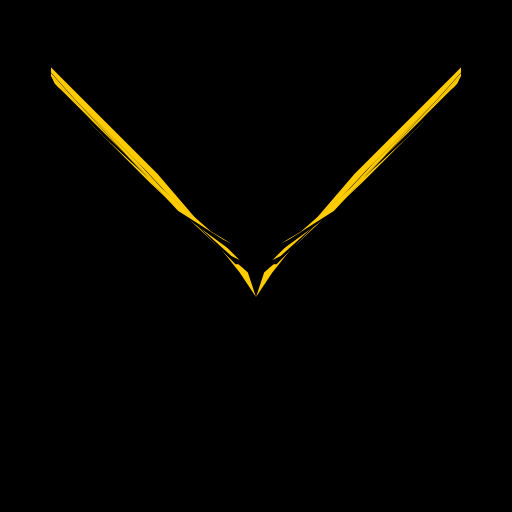
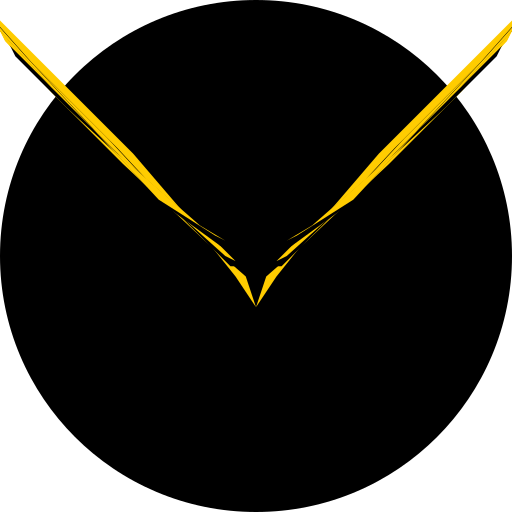
fix: sustituir isologo moto por V amarilla + botón PWA persistente
- Regenerar PNGs (logo-192, logo-512, favicon, maskable) desde logo-mundo-motos.svg
- Login.tsx y App.tsx ahora apuntan a /logo-mundo-motos.svg (cache-proof)
- InstallPWA: botón persistente con fallback 'Abrir en celular' cuando beforeinstallprompt no se dispara
- Bump v1.1.0 para forzar re-descarga de assets

Changed region(s): [[0.0, 0.0, 1.0, 0.5938], [0.5625, 0.5625, 1.0, 1.0], [0.0, 0.5625, 0.4375, 1.0]]

diff --git a/packages/frontend/src/components/InstallPWA.tsx b/packages/frontend/src/components/InstallPWA.tsx
@@ -1,5 +1,5 @@
 import { useEffect, useState, useCallback } from 'react'
-import { Download, X } from 'lucide-react'
+import { Download, X, Smartphone } from 'lucide-react'
 
 interface BeforeInstallPromptEvent extends Event {
   prompt: () => Promise<void>
@@ -12,29 +12,36 @@ declare global {
   }
 }
 
+type InstallState = 'waiting' | 'available' | 'installed' | 'unsupported'
+
 export default function InstallButton() {
   const [deferredPrompt, setDeferredPrompt] = useState<BeforeInstallPromptEvent | null>(null)
-  const [mostrarBoton, setMostrarBoton] = useState(false)
+  const [installState, setInstallState] = useState<InstallState>('waiting')
   const [oculto, setOculto] = useState(false)
 
   useEffect(() => {
     const handler = (e: BeforeInstallPromptEvent) => {
       e.preventDefault()
       setDeferredPrompt(e)
-      setMostrarBoton(true)
+      setInstallState('available')
     }
 
     const installedHandler = () => {
-      setMostrarBoton(false)
+      setInstallState('installed')
       setDeferredPrompt(null)
     }
 
     window.addEventListener('beforeinstallprompt', handler)
     window.addEventListener('appinstalled', installedHandler)
 
+    const timer = setTimeout(() => {
+      setInstallState((prev) => (prev === 'waiting' ? 'unsupported' : prev))
+    }, 5000)
+
     return () => {
       window.removeEventListener('beforeinstallprompt', handler)
       window.removeEventListener('appinstalled', installedHandler)
+      clearTimeout(timer)
     }
   }, [])
 
@@ -43,7 +50,7 @@ export default function InstallButton() {
     await deferredPrompt.prompt()
     const { outcome } = await deferredPrompt.userChoice
     if (outcome === 'accepted') {
-      setMostrarBoton(false)
+      setInstallState('installed')
     }
     setDeferredPrompt(null)
   }, [deferredPrompt])
@@ -52,7 +59,26 @@ export default function InstallButton() {
     setOculto(true)
   }, [])
 
-  if (!mostrarBoton || oculto) return null
+  if (oculto || installState === 'installed') return null
+
+  if (installState === 'unsupported') {
+    return (
+      <div className="fixed bottom-6 right-6 z-50">
+        <button
+          type="button"
+          onClick={descartar}
+          className="group flex items-center gap-2 rounded-xl border border-mm-gray-600 bg-mm-gray-800/90 px-4 py-2.5 text-xs text-mm-gray-400 backdrop-blur-sm transition-all hover:border-mm-yellow hover:text-mm-yellow"
+        >
+          <Smartphone className="h-4 w-4" />
+          <span className="hidden sm:inline">Abrir en el navegador del celular para instalar</span>
+          <span className="sm:hidden">Instalar desde el celular</span>
+          <X className="ml-1 h-3 w-3 opacity-0 transition-opacity group-hover:opacity-100" />
+        </button>
+      </div>
+    )
+  }
+
+  if (installState === 'waiting') return null
 
   return (
     <div className="fixed bottom-6 right-6 z-50 flex flex-col items-end gap-3">

diff --git a/packages/frontend/src/pages/Login.tsx b/packages/frontend/src/pages/Login.tsx
@@ -47,11 +47,11 @@ export function Login() {
       <div className="w-full max-w-md">
         <div className="flex flex-col items-center gap-3">
           <img
-            src="/logo-192.png"
+            src="/logo-mundo-motos.svg"
             alt="Mundo Motos"
             className="h-16 w-16 rounded-2xl object-contain"
           />
-          <h1 className="text-2xl font-bold text-mm-yellow sm:text-3xl">Mundo Motos CRM</h1>
+          <h1 className="text-2xl font-bold text-mm-yellow sm:text-3xl">Mundo Motos</h1>
           <p className="text-sm text-mm-gray-400">
             Sistema de Gestión y Geolocalización de Concesionarios
           </p>

diff --git a/packages/frontend/src/App.tsx b/packages/frontend/src/App.tsx
@@ -55,7 +55,7 @@ function Navegacion() {
         <div className="container mx-auto flex flex-col gap-3 px-4 py-3 sm:flex-row sm:items-center sm:justify-between">
           <div className="flex items-center gap-3">
             <img
-              src="/logo-192.png"
+              src="/logo-mundo-motos.svg"
               alt="Mundo Motos"
               className="h-10 w-10 shrink-0 rounded-xl object-contain"
             />
